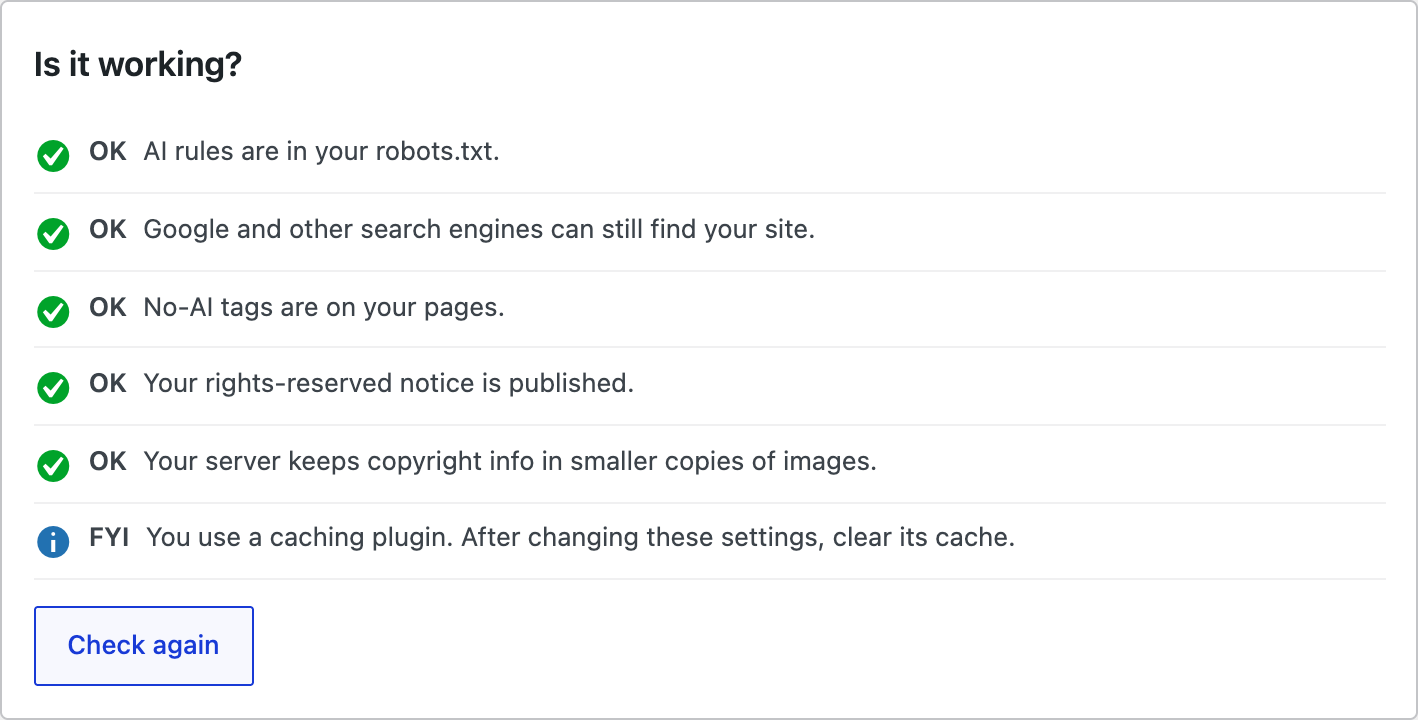
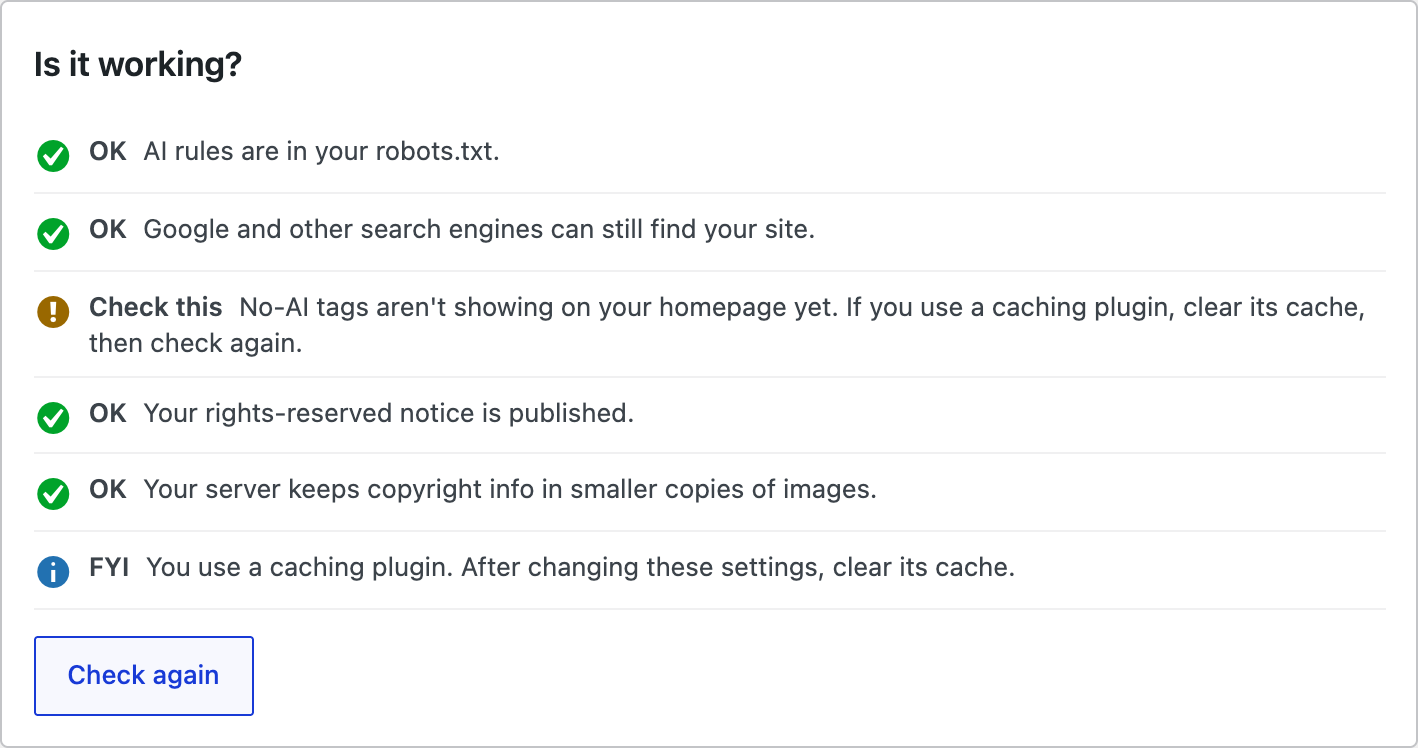
Check the homepage as visitors see it

diff --git a/includes/status.php b/includes/status.php
@@ -154,7 +154,9 @@ function notfortraining_status_context() {
 	return array(
 		'fetch' => static function ( $key ) use ( &$cache ) {
 			if ( ! array_key_exists( $key, $cache ) ) {
-				$cache[ $key ] = notfortraining_status_fetch( notfortraining_status_url( $key ) );
+				// The homepage is fetched exactly as visitors get it, so a page
+				// cache serving an old copy is caught, not bypassed.
+				$cache[ $key ] = notfortraining_status_fetch( notfortraining_status_url( $key ), 'home' !== $key );
 			}
 			return $cache[ $key ];
 		},
@@ -205,27 +207,34 @@ function notfortraining_is_subdirectory_install() {
 }
 
 /**
- * One loopback GET, uncached by any page cache in between.
+ * One loopback GET.
  *
- * @param string $url URL.
+ * With $bypass_cache, a random query arg and a no-cache header ask every
+ * cache in between for a fresh answer (robots.txt, tdmrep.json: is the
+ * site producing the right thing?). Without it, the URL and headers are
+ * what a visitor's browser sends, so a page cache answers as it would for
+ * them (the homepage: are visitors getting the tags?).
+ *
+ * @param string $url          URL.
+ * @param bool   $bypass_cache Ask caches for a fresh copy.
  * @return array{code: int, body: string, headers: array}|null Null when the
  *         request failed, timed out, or got an answer that says nothing
  *         about the plugin (401, 407, 408, 429, 5xx).
  */
-function notfortraining_status_fetch( $url ) {
-	$url      = add_query_arg( 'notfortraining-check', (string) wp_rand(), $url );
-	$response = wp_remote_get(
-		$url,
-		array(
-			// Five seconds: the WP HTTP API runs requests one after another,
-			// so three loopbacks can take up to 15 seconds in all.
-			'timeout'     => 5,
-			'redirection' => 3,
-			/** This filter is documented in wp-includes/class-wp-http-streams.php */
-			'sslverify'   => apply_filters( 'https_local_ssl_verify', false ), // phpcs:ignore WordPress.NamingConventions.PrefixAllGlobals.NonPrefixedHooknameFound -- Core's filter for loopback requests, applied as Site Health does.
-			'headers'     => array( 'Cache-Control' => 'no-cache' ),
-		)
+function notfortraining_status_fetch( $url, $bypass_cache = true ) {
+	$args = array(
+		// Five seconds: the WP HTTP API runs requests one after another,
+		// so three loopbacks can take up to 15 seconds in all.
+		'timeout'     => 5,
+		'redirection' => 3,
+		/** This filter is documented in wp-includes/class-wp-http-streams.php */
+		'sslverify'   => apply_filters( 'https_local_ssl_verify', false ), // phpcs:ignore WordPress.NamingConventions.PrefixAllGlobals.NonPrefixedHooknameFound -- Core's filter for loopback requests, applied as Site Health does.
 	);
+	if ( $bypass_cache ) {
+		$url             = add_query_arg( 'notfortraining-check', (string) wp_rand(), $url );
+		$args['headers'] = array( 'Cache-Control' => 'no-cache' );
+	}
+	$response = wp_remote_get( $url, $args );
 	if ( is_wp_error( $response ) ) {
 		return null;
 	}

diff --git a/tests/test-status.php b/tests/test-status.php
@@ -605,11 +605,43 @@ class NotForTraining_Test_Status extends NotForTraining_TestCase {
 		foreach ( $this->requests as $request ) {
 			list( $url, $args ) = $request;
 			$paths[]            = wp_parse_url( $url, PHP_URL_PATH );
-			$this->assertStringContainsString( 'notfortraining-check=', $url );
 			$this->assertSame( 5, $args['timeout'] );
 			$this->assertFalse( $args['sslverify'] );
 		}
 		$this->assertSame( array( '/robots.txt', '/', '/.well-known/tdmrep.json' ), $paths );
+
+		// robots.txt and tdmrep.json ask caches for a fresh copy.
+		foreach ( array( 0, 2 ) as $i ) {
+			list( $url, $args ) = $this->requests[ $i ];
+			$this->assertStringContainsString( 'notfortraining-check=', $url );
+			$this->assertSame( 'no-cache', $args['headers']['Cache-Control'] );
+		}
+	}
+
+	/**
+	 * The homepage is requested exactly as a visitor's browser would: the
+	 * plain home URL, no query string, no cache-busting headers. A page
+	 * cache then answers as it would for visitors.
+	 */
+	public function test_homepage_fetched_as_visitors_see_it() {
+		$this->check( 'noai_tag' );
+		$this->assertCount( 1, $this->requests );
+		list( $url, $args ) = $this->requests[0];
+
+		$this->assertSame( home_url( '/' ), $url );
+		$this->assertNull( wp_parse_url( $url, PHP_URL_QUERY ) );
+
+		$headers = array_change_key_case( (array) ( $args['headers'] ?? array() ) );
+		$this->assertArrayNotHasKey( 'cache-control', $headers );
+		$this->assertArrayNotHasKey( 'pragma', $headers );
+
+		// The cache-buster is still on the other two.
+		$this->requests = array();
+		$this->check( 'robots_served' );
+		$this->check( 'tdmrep' );
+		foreach ( $this->requests as $request ) {
+			$this->assertStringContainsString( 'notfortraining-check=', $request[0] );
+		}
 	}
 
 	/**
